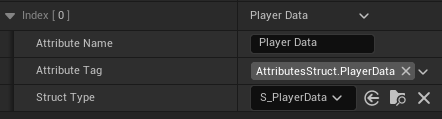
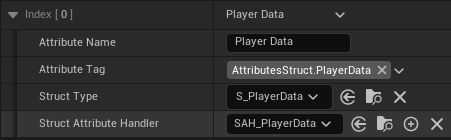
Updated attribute modifiers to be able to access struct attribute handlers. Updated docs to reflect this

diff --git a/Source/SimpleGameplayAbilitySystem/SimpleGameplayAbilityComponent/SimpleGameplayAbilityComponentAttributeFunctions.cpp b/Source/SimpleGameplayAbilitySystem/SimpleGameplayAbilityComponent/SimpleGameplayAbilityComponentAttributeFunctions.cpp
@@ -328,7 +328,7 @@ bool USimpleGameplayAbilityComponent::SetFloatAttributeValue(EAttributeValueType
 	
 	if (!Attribute)
 	{
-		UE_LOG(LogSimpleGAS, Warning, TEXT("[USimpleAttributeFunctionLibrary::SetFloatAttributeValue]: Attribute %s not found."), *AttributeTag.ToString());
+		SIMPLE_LOG(this, FString::Printf(TEXT("[USimpleAttributeFunctionLibrary::SetFloatAttributeValue]: Attribute %s not found."), *AttributeTag.ToString()));
 		return false;
 	}
 	
@@ -441,7 +441,7 @@ bool USimpleGameplayAbilityComponent::SetStructAttributeValue(const FGameplayTag
 	
 	if (!Attribute)
 	{
-		UE_LOG(LogSimpleGAS, Warning, TEXT("[USimpleAttributeFunctionLibrary::SetStructAttributeValue]: Attribute %s not found."), *AttributeTag.ToString());
+		SIMPLE_LOG(this, FString::Printf(TEXT("[USimpleAttributeFunctionLibrary::SetStructAttributeValue]: Attribute %s not found."), *AttributeTag.ToString()));
 		return false;
 	}
 
@@ -507,7 +507,7 @@ float USimpleGameplayAbilityComponent::ClampFloatAttributeValue(
 			return NewValue;
 				
 		default:
-			UE_LOG(LogSimpleGAS, Warning, TEXT("USimpleGameplayAttributes::ClampValue: Invalid attribute value type."));
+			SIMPLE_LOG(this, TEXT("[USimpleGameplayAbilityComponent::ClampFloatAttributeValue]: ValueType not supported."));
 			return 0.0f;
 	}
 }
@@ -562,7 +562,7 @@ void USimpleGameplayAbilityComponent::SendFloatAttributeChangedEvent(FGameplayTa
 	}
 	else
 	{
-		UE_LOG(LogSimpleGAS, Warning, TEXT("USimpleGameplayAttributes::SendFloatAttributeChangedEvent: No event subsystem found."));
+		SIMPLE_LOG(this, TEXT("[USimpleGameplayAbilityComponent::SendFloatAttributeChangedEvent]: No SimpleEventSubsystem found."));
 	}
 }
 

diff --git a/Source/SimpleGameplayAbilitySystem/SimpleGameplayAbilityComponent/SimpleGameplayAbilityComponent.h b/Source/SimpleGameplayAbilitySystem/SimpleGameplayAbilityComponent/SimpleGameplayAbilityComponent.h
@@ -142,7 +142,7 @@ public:
 	UFUNCTION(BlueprintCallable, BlueprintPure, meta = (DeterminesOutputType = "AvatarClass", HideSelfPin))
 	float GetFloatAttributeValue(EAttributeValueType ValueType, FGameplayTag AttributeTag, bool& WasFound);
 
-	UFUNCTION(BlueprintCallable)
+	UFUNCTION(BlueprintCallable, meta = (ReturnDisplayName = "WasFound"), Category = "AbilityComponent|Attributes")
 	bool SetFloatAttributeValue(EAttributeValueType ValueType, FGameplayTag AttributeTag, float NewValue, float& Overflow);
 
 	bool IncrementFloatAttributeValue(EAttributeValueType ValueType, FGameplayTag AttributeTag, float Increment, float& Overflow);
@@ -153,7 +153,7 @@ public:
 	UFUNCTION(BlueprintCallable, BlueprintPure)
 	FInstancedStruct GetStructAttributeValue(FGameplayTag AttributeTag, bool& WasFound);
 	
-	UFUNCTION(BlueprintCallable)
+	UFUNCTION(BlueprintCallable, meta = (ReturnDisplayName = "WasFound"), Category = "AbilityComponent|Attributes")
 	bool SetStructAttributeValue(FGameplayTag AttributeTag, FInstancedStruct NewValue);
 
 	UFUNCTION()

diff --git a/Source/SimpleGameplayAbilitySystem/BlueprintFunctionLibraries/FunctionSelectors/FunctionSelectors.cpp b/Source/SimpleGameplayAbilitySystem/BlueprintFunctionLibraries/FunctionSelectors/FunctionSelectors.cpp
@@ -56,17 +56,18 @@ bool UFunctionSelectors::ApplyFloatAttributeOperation(
 
 bool UFunctionSelectors::ModifyStructAttributeValue(
 	const USimpleAttributeModifier* OwningModifier,
-	const FMemberReference& DynamicFunction, const FGameplayTag AttributeTag, const FInstancedStruct& InStruct,
-	FGameplayTagContainer& EventTags, FInstancedStruct& OutStruct)
+	const FMemberReference& DynamicFunction,
+	const FGameplayTag AttributeTag,
+	const FInstancedStruct& InStruct,
+	FInstancedStruct& OutStruct)
 {
 	if (UFunction* Function = DynamicFunction.ResolveMember<UFunction>(OwningModifier->GetClass()))
 	{
 		struct {
 			FGameplayTag AttributeTag;
 			FInstancedStruct InStruct;
-			FGameplayTagContainer EventTags;
 			FInstancedStruct OutStruct;
-		} Params = { AttributeTag, InStruct, EventTags, OutStruct };
+		} Params = { AttributeTag, InStruct, OutStruct };
 
 		OwningModifier->OwningAbilityComponent->ProcessEvent(Function, &Params);
 		OutStruct = Params.OutStruct;

diff --git a/Source/SimpleGameplayAbilitySystem/BlueprintFunctionLibraries/FunctionSelectors/FunctionSelectors.h b/Source/SimpleGameplayAbilitySystem/BlueprintFunctionLibraries/FunctionSelectors/FunctionSelectors.h
@@ -5,6 +5,7 @@
 #include "Kismet/BlueprintFunctionLibrary.h"
 #include "FunctionSelectors.generated.h"
 
+struct FInstancedStruct;
 class USimpleAttributeModifier;
 class USimpleGameplayAbilityComponent;
 
@@ -32,7 +33,6 @@ public:
 	bool Prototype_ModifyStructAttributeValue(
 		FGameplayTag AttributeTag,
 		const FInstancedStruct& InStruct,
-		FGameplayTagContainer& EventTags,
 		FInstancedStruct& OutStruct) { return false; };
 	
 	UFUNCTION(BlueprintInternalUseOnly, meta = (ReturnDisplayName = "Context"))
@@ -66,7 +66,6 @@ public:
 		const FMemberReference& DynamicFunction,
 		FGameplayTag AttributeTag,
 		const FInstancedStruct& InStruct,
-		FGameplayTagContainer& EventTags,
 		FInstancedStruct& OutStruct);
 	
 	static bool GetStructContext(const USimpleAttributeModifier* OwningModifier, const FMemberReference& DynamicFunction, FInstancedStruct& Context);

diff --git a/Source/SimpleGameplayAbilitySystem/SimpleAbility/SimpleAttributeModifier/SimpleAttributeModifier.cpp b/Source/SimpleGameplayAbilitySystem/SimpleAbility/SimpleAttributeModifier/SimpleAttributeModifier.cpp
@@ -524,7 +524,6 @@ bool USimpleAttributeModifier::ApplyStructAttributeModifier(const FStructAttribu
 		return false;
 	}
 
-	FGameplayTagContainer EventTags;
 	FInstancedStruct OutStruct;
 	
 	if (!UFunctionSelectors::ModifyStructAttributeValue(
@@ -532,7 +531,6 @@ bool USimpleAttributeModifier::ApplyStructAttributeModifier(const FStructAttribu
 		StructModifier.StructModificationFunction,
 		AttributeToModify->AttributeTag,
 		AttributeToModify->AttributeValue,
-		EventTags,
 		OutStruct))
 	{
 		SIMPLE_LOG(OwningAbilityComponent, FString::Printf(TEXT("[USimpleAttributeModifier::ApplyStructAttributeModifier]: Struct modifier %s failed to apply."), *StructModifier.ModifierDescription));

diff --git a/docs/pages/concepts/attributes/attributes.md b/docs/pages/concepts/attributes/attributes.md
@@ -33,20 +33,73 @@ Struct Attributes have:
 - `Attribute Name`: A friendly label to help you identify the attribute in the editor
 - `Attribute Tag`: A unique gameplay tag that identifies this attribute
 - `StructType`: The struct type this attribute represents
+- `StructAttributeHandler`: On optional handler object class reference that you can use to send fine grained events when the attribute changes
 
 Here's an example of a Struct Attribute in the editor:
 ![Struct attribute in the editor](attributes_2.png)
 
-## How Attributes Are Updated
+## How To Modify Attributes
 
-Attributes can be modified by:
+<details markdown="1">
+<summary>Float Attributes</summary>
 
-1. Calling a function on the `AbilitySystemComponent`  
-    ![a screenshot of the SetStructAttributeValue function](attributes_3.png)
-2. [Attribute Modifiers](../../blueprint_nodes/attribute_modifiers/attribute_modifiers.html)
+1. Calling the [`SetFloatAttribute`](../../blueprint_nodes/ability_component/gameplay_ability_component.html#setfloatattributevalue) function on the `GamplayAbilitySystemComponent` that owns the attribute:  
+    ![a screenshot of the SetFloatAttributeValue function](attributes_3.png)
 
-When an attribute changes, SimpleGAS automatically sends an event so other systems (like your UI) can react to the change.  
-You can find a list of the available events on the [Event Reference page](../../event_reference/event_reference.html).
+2. Using an [`Attribute Modifier`](../../blueprint_nodes/attribute_modifiers/attribute_modifiers.html):  
+    ![a screenshot of a simple attribute modifier changing a float](attributes_11.png)  
+
+</details>
+
+<details markdown="1">
+<summary>Struct Attributes</summary>
+
+1. Calling the [`SetStructAttribute`](../../blueprint_nodes/ability_component/gameplay_ability_component.html#setstructattributevalue) function on the `GamplayAbilitySystemComponent` that owns the attribute:  
+    ![a screenshot of the SetStructAttributeValue function](attributes_12.png)
+
+2. Using an [`Attribute Modifier`](../../blueprint_nodes/attribute_modifiers/attribute_modifiers.html):  
+    ![a screenshot of a simple attribute modifier changing a struct](attributes_13.png)  
+    Inside the struct modification function:  
+    ![a screenshot of a function callback when modifying a struct attribute with an attribute modifier](attributes_14.png)
+
+</details>
+
+## How To Listen For Changes
+
+When an attribute changes, SimpleGAS automatically sends an event through the [Simple Event Subsystem](../event_system/event_subsystem.html) so other systems (like your UI) can react to the change.  
+You can find a list of the available events on the [Event Reference page](../../event_reference/event_reference.html). 
+
+<details markdown="1">
+<summary>Float Attributes</summary>
+
+1. Listen for the appropriate event in the Simple Event Subsystem:
+    ![a screenshot of listening for a change in float attribute value](attributes_6.png)
+2. Use the `WaitForFloatAttributeChanged` latent node:
+    ![a screenshot of the WaitForFloatAttributeChanged node](attributes_7.png)
+
+</details>
+
+<details markdown="1">
+<summary>Struct Attributes</summary>
+
+1. Listen for the appropriate event in the Simple Event Subsystem:
+    ![a screenshot of listening for a change in struct attribute value](attributes_8.png)
+2. Use the `WaitForStructAttributeChanged` latent node:
+    ![a screenshot of the WaitForStructAttributeChanged node](attributes_9.png)
+
+Struct attributes are a bit different from float attributes when it comes to the event that gets sent.  
+
+When a struct attribute changes, the entire struct is replaced. This presents a problem for when we are modifying the struct. 
+Even though we know which struct members changed there is no easy way to automatically send an event for each member that changed.  
+To get around this, you can create a `StructAttributeHandler` class to send fine-grained events when the attribute changes.  
+
+To create a struct attribute handler, create a new blueprint class that inherits from `UStructAttributeHandler`. This class only has a single function to implement called `GetModificationEvents`. It takes as input two `FInstancedStruct` parameters (the old struct and the new one) and returns an `FGameplayTagContainer` with the tags representing the members of the struct that changed:
+![a screenshot of a struct attribute handler implementation](attributes_10.png)  
+The `GetModificationEvents` function will be  called whenever the struct attribute changes and you can use it to determine which fields in the struct changed.  
+You can then listen for the corresponding struct member events. If no `StructAttributeHandler` is set on the struct attribute definition, you'll still receive an event when the struct changes, but it won't have any `ModificationTags` in it.
+
+</details>
+
 
 ## Attribute Sets
 

diff --git a/docs/pages/blueprint_nodes/ability_component/gameplay_ability_component.md b/docs/pages/blueprint_nodes/ability_component/gameplay_ability_component.md
@@ -355,7 +355,7 @@ Gets the value of a struct attribute.
 
 ### SetStructAttributeValue
 
-Sets the value of a struct attribute. Can optionally trigger events to notify other systems of the change.
+Sets the value of a struct attribute.
 
 **Parameters:**
 
@@ -363,7 +363,6 @@ Sets the value of a struct attribute. Can optionally trigger events to notify ot
 |:-------------|:------------------|:------|
 | Attribute Tag | FGameplayTag | The tag of the attribute to set |
 | New Value | FInstancedStruct | The new value to set |
-| Modification Events | FGameplayTagContainer | Tags for events to fire after modification |
 
 | Output | Type | Description |
 |:-------------|:------------------|:------|

diff --git a/docs/pages/concepts/gampley_tags/gameplay_tags.md b/docs/pages/concepts/gampley_tags/gameplay_tags.md
@@ -7,7 +7,7 @@ nav_order: 1
 
 # Gameplay Tags
 
-Gameplay tags are a flexible way to label and categorize things in your game. Think of them as keywords or hashtags that you can attach to game elements to give them meaning and make them searchable.
+Gameplay tags give you a clean way to label and categorize things in your game. Think of them like keywords or hashtags that you can attach to game elements to give them meaning and make them searchable.
 
 In SimpleGAS, gameplay tags are used for things like:
 - Controlling when abilities can activate
